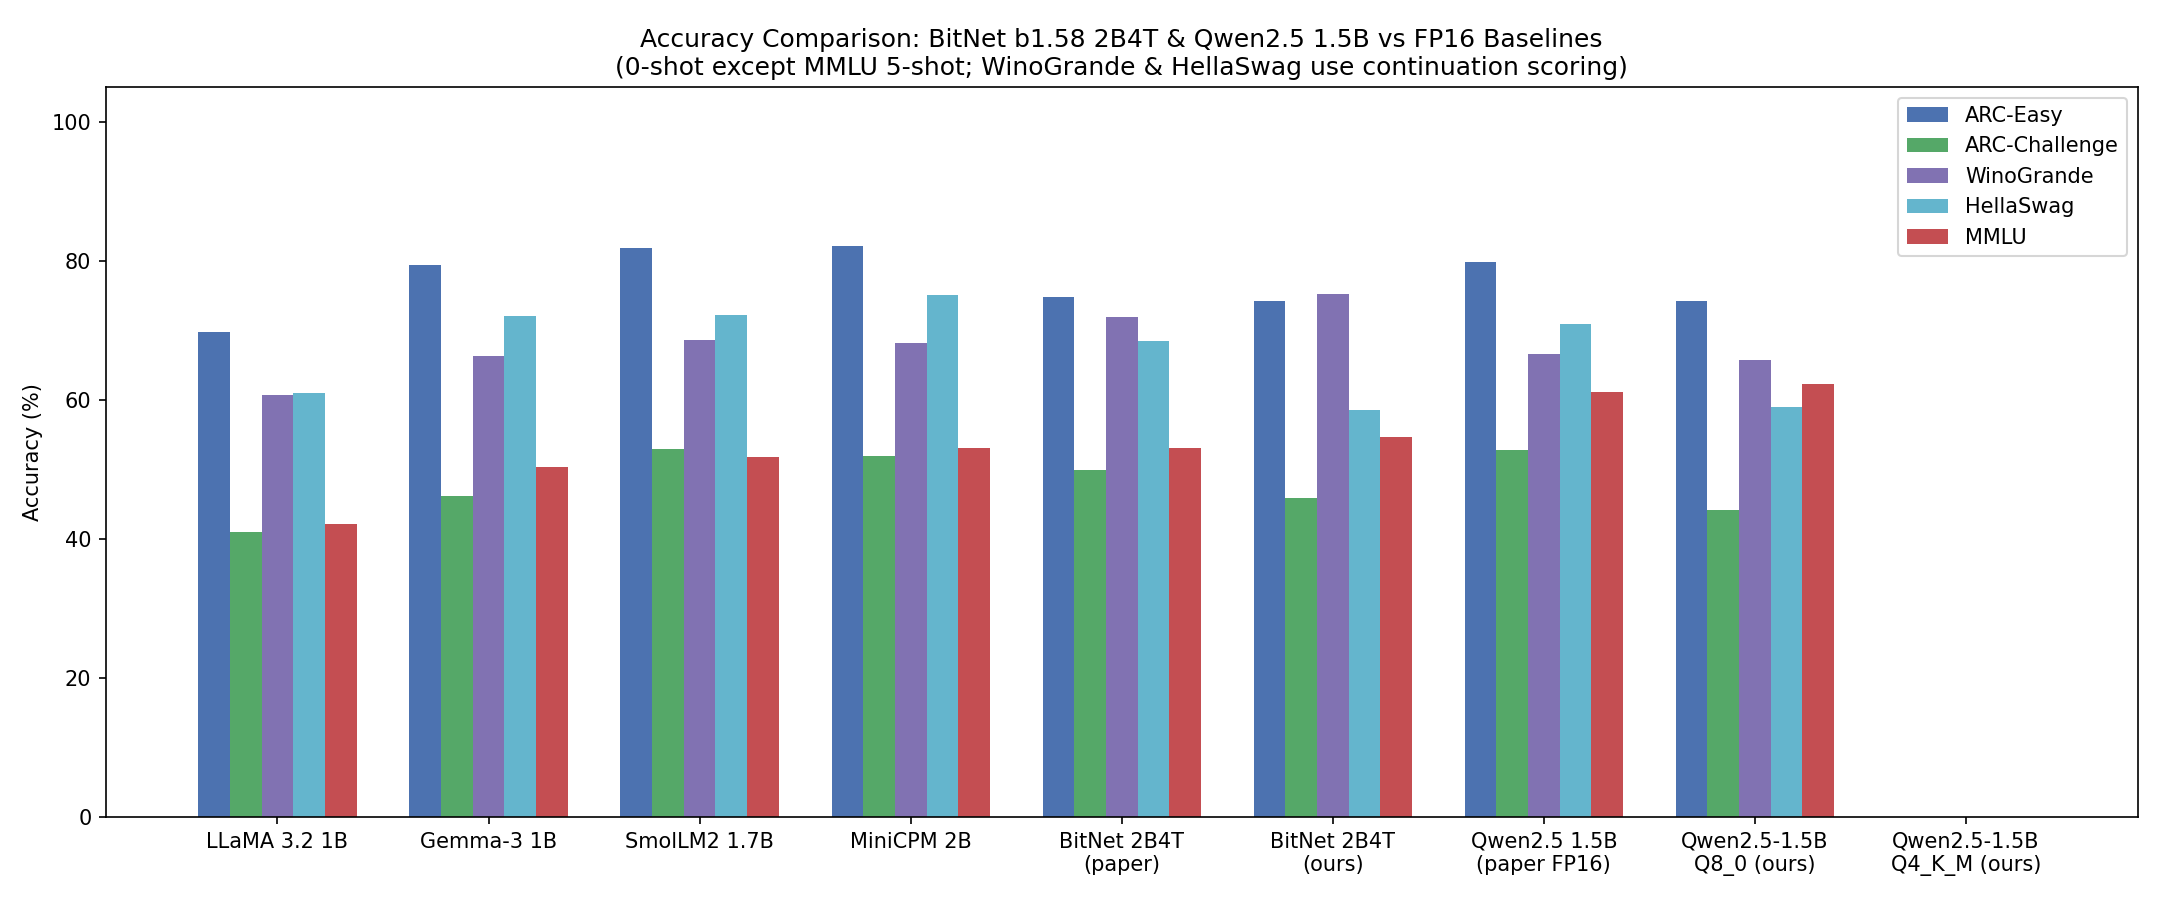
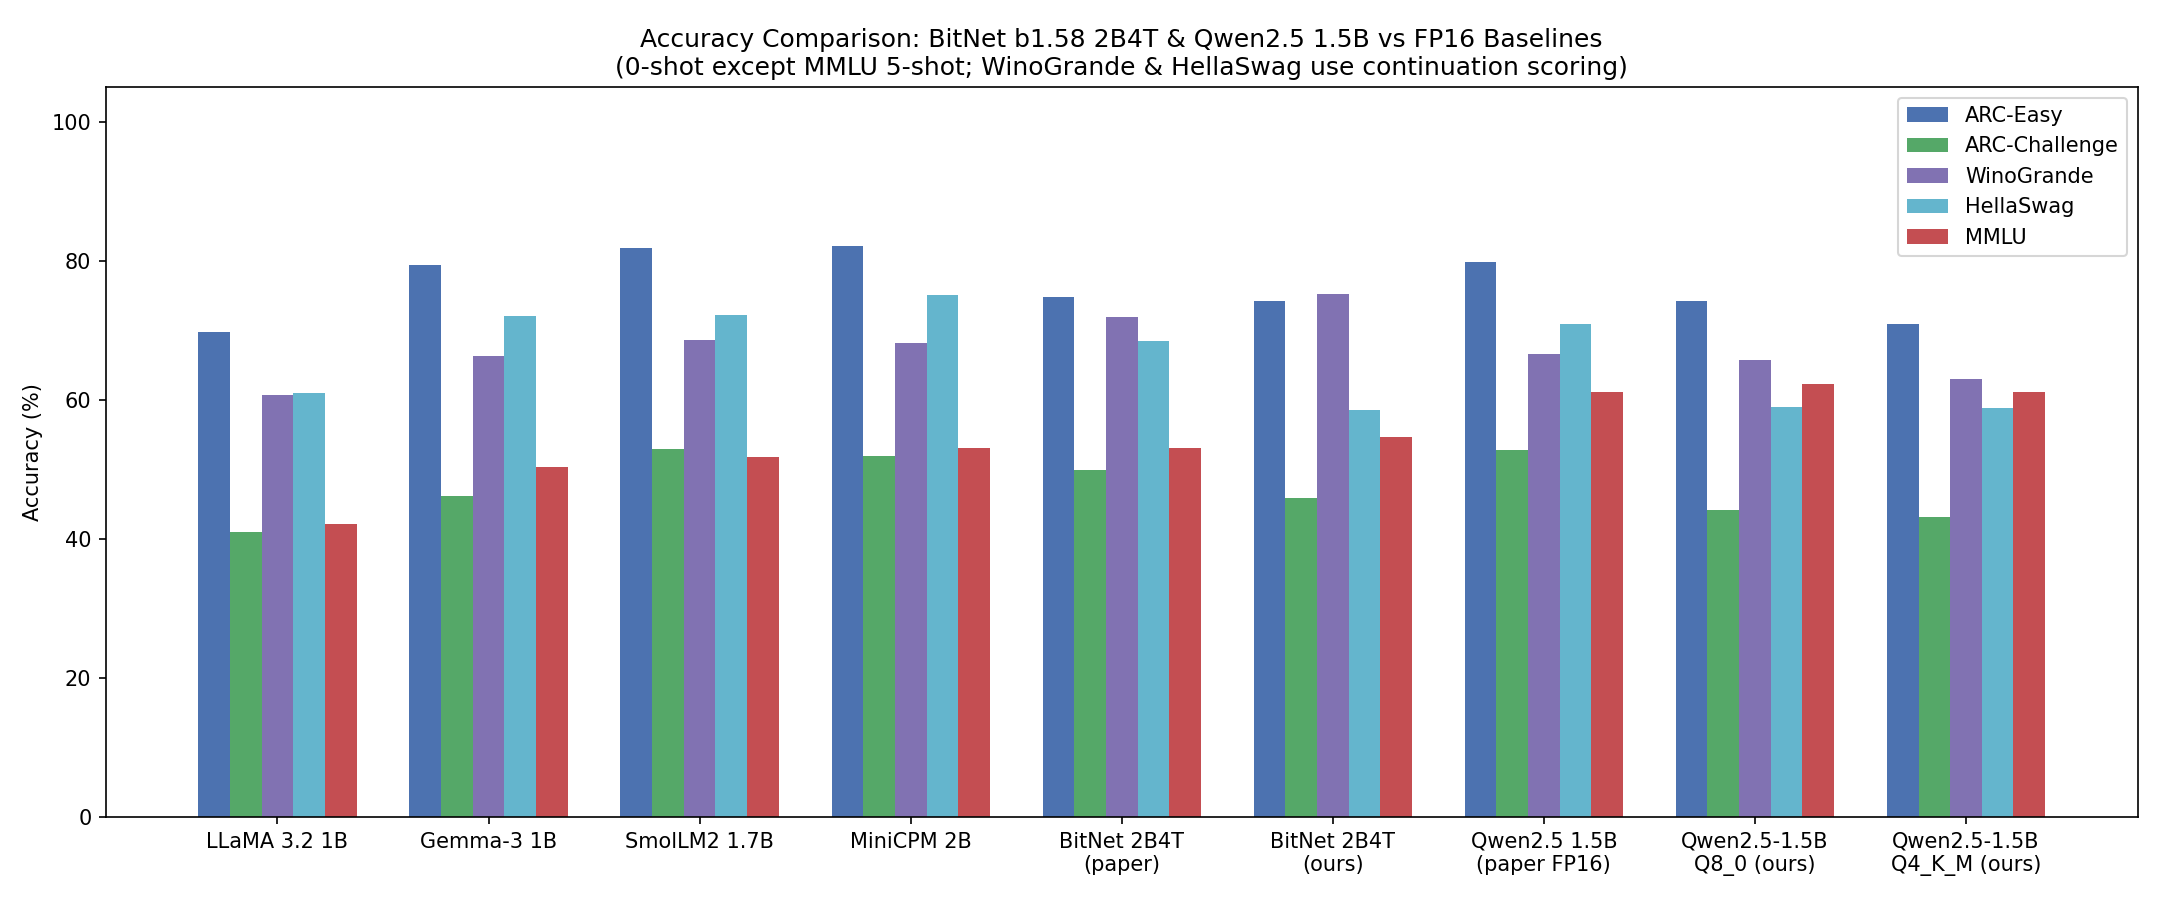
Unify throughput plots into one two-panel figure
Replaces three separate plot files (bitnet_throughput_configs.png,
qwen_throughput_configs.png, qwen_q4_throughput_configs.png) and the
single-panel throughput_comparison.png with one unified two-panel
chart written to throughput_comparison.png:

  (a) Cross-model bar chart at n_prompt=512, n_gen=128 (paper FP16
      baselines + BitNet paper/ours + Qwen paper/Q8 ours/Q4 ours)
  (b) Per-config sensitivity for the three locally measured models —
      grouped vertical bars across (512,128), (512,512), (1,512)

compare_runs.py:
- plot_throughput rewritten as a two-panel figure
- plot_throughput_by_config deleted (no longer used)
- main() no longer calls per-config plot generation
- savefig uses bbox_inches="tight" so the long y-axis labels in
  panel (a) aren't clipped by the gridspec's default left margin

smoke_test.py: bitnet_throughput_configs.png removed from expected-
plots check list.

PLAN.md: throughput plot description updated for the two-panel layout.

FINAL_REPORT.md:
- §3.2 narrative updated to describe both panels
- §3.4 per-config table extended with the Qwen Q4_K_M column and a
  paragraph flagging that Q4 outperforms BitNet on raw throughput —
  reframes the kernel-attribution discussion that §5.1 still owes a
  refresh once the Q4 accuracy story is fully written up

All other plots also regenerated because compare_runs.py runs end-to-
end; their content is unchanged except for now including the Q4 row.

Changed region(s): [[0.8685, 0.3422, 0.9616, 0.9333]]

diff --git a/scripts/compare_runs.py b/scripts/compare_runs.py
@@ -414,28 +414,95 @@ def _legend_handles(qwen_df: pd.DataFrame | None, qwen_q4_df: pd.DataFrame | Non
 def plot_throughput(local_df: pd.DataFrame, out_dir: Path,
                     qwen_df: pd.DataFrame | None = None,
                     qwen_q4_df: pd.DataFrame | None = None):
-    if not _has_bench_data(local_df) and not _has_bench_data(qwen_df) and not _has_bench_data(qwen_q4_df):
+    """
+    Single unified throughput plot with two panels:
+
+      (a) Cross-model bar chart at (n_prompt=512, n_gen=128) — paper FP16
+          baselines + BitNet (paper, ours) + Qwen (paper FP16, Q8 ours, Q4 ours).
+      (b) Per-config sensitivity — grouped bars across the three benchmarked
+          (n_prompt, n_gen) configs for our three locally measured models.
+          The paper FP16 baselines only publish numbers at (512, 128), so
+          they don't appear in this panel.
+    """
+    has_b = _has_bench_data(local_df)
+    has_q = _has_bench_data(qwen_df)
+    has_4 = _has_bench_data(qwen_q4_df)
+    if not (has_b or has_q or has_4):
         print("Skipping throughput plot: no benchmark CSVs (run 'make benchmark').")
         return
-    labels, values, colors, hatches = _bar_series(local_df, qwen_df, qwen_q4_df, "throughput_tokens_s")
 
-    fig, ax = plt.subplots(figsize=(10, max(5, len(labels) * 0.55)))
+    labels, values, colors, hatches = _bar_series(local_df, qwen_df, qwen_q4_df, "throughput_tokens_s")
+    fig = plt.figure(figsize=(13, max(9, len(labels) * 0.55 + 4)))
+    gs = fig.add_gridspec(2, 1, height_ratios=[len(labels) * 0.55, 4.5], hspace=0.35)
+    ax_main = fig.add_subplot(gs[0])
+    ax_cfg  = fig.add_subplot(gs[1])
+
+    # ── (a) Cross-model comparison at (512, 128) ─────────────────────────
     max_val = max(v for v in values if v) or 1
     for i, (val, color, hatch) in enumerate(zip(values, colors, hatches)):
-        ax.barh(i, val, color=color, hatch=hatch,
-                edgecolor="#444444" if hatch else "#cccccc", linewidth=0.5)
-        ax.text(val + max_val * 0.01, i, f"{val:.1f}", va="center", fontsize=9)
-    ax.set_yticks(range(len(labels)))
-    ax.set_yticklabels(labels)
-    ax.set_xlabel("Throughput (tokens/s)")
-    ax.set_title("Inference Throughput: BitNet b1.58 2B4T & Qwen2.5 1.5B vs FP16 Baselines\n"
-                 "(n_prompt=512, n_gen=128, CPU)")
-    ax.set_xlim(0, max_val * 1.15)
-    ax.invert_yaxis()
-    ax.legend(handles=_legend_handles(qwen_df, qwen_q4_df), loc="lower right", fontsize=8)
+        ax_main.barh(i, val, color=color, hatch=hatch,
+                     edgecolor="#444444" if hatch else "#cccccc", linewidth=0.5)
+        ax_main.text(val + max_val * 0.01, i, f"{val:.1f}", va="center", fontsize=9)
+    ax_main.set_yticks(range(len(labels)))
+    ax_main.set_yticklabels(labels)
+    ax_main.set_xlabel("Throughput (tokens/s)")
+    ax_main.set_title("(a) Cross-model comparison at n_prompt=512, n_gen=128", loc="left")
+    ax_main.set_xlim(0, max_val * 1.15)
+    ax_main.invert_yaxis()
+    ax_main.legend(handles=_legend_handles(qwen_df, qwen_q4_df), loc="upper right", fontsize=8)
+
+    # ── (b) Per-config sensitivity for the locally measured models ───────
+    configs = [(512, 128), (512, 512), (1, 512)]
+    config_labels = [f"p={p} / g={g}" for p, g in configs]
+    series = []
+    if has_b:
+        series.append(("BitNet b1.58 2B4T",   local_df,   BITNET_COLOR))
+    if has_q:
+        series.append(("Qwen2.5-1.5B Q8_0",   qwen_df,    QWEN_COLOR))
+    if has_4:
+        series.append(("Qwen2.5-1.5B Q4_K_M", qwen_q4_df, QWEN_Q4_COLOR))
+
+    x = np.arange(len(configs))
+    width = 0.8 / max(len(series), 1)
+    offsets = np.linspace(-(len(series) - 1) * width / 2,
+                          (len(series) - 1) * width / 2, len(series))
+    all_vals: list[float] = []
+    for idx, (name, df, color) in enumerate(series):
+        vals = []
+        for p, g in configs:
+            row = df[(df["n_prompt"] == p) & (df["n_gen"] == g)]
+            v = float(row["throughput_tokens_s"].median()) if not row.empty else 0.0
+            vals.append(v)
+        all_vals.extend(vals)
+        ax_cfg.bar(x + offsets[idx], vals, width, label=name, color=color)
+    y_top = max(all_vals) * 1.18 if all_vals else 1
+    for idx, (name, df, color) in enumerate(series):
+        vals = []
+        for p, g in configs:
+            row = df[(df["n_prompt"] == p) & (df["n_gen"] == g)]
+            v = float(row["throughput_tokens_s"].median()) if not row.empty else 0.0
+            vals.append(v)
+        for xi, v in zip(x + offsets[idx], vals):
+            if v > 0:
+                ax_cfg.text(xi, v + y_top * 0.015, f"{v:.1f}",
+                            ha="center", fontsize=8)
+    ax_cfg.set_xticks(x)
+    ax_cfg.set_xticklabels(config_labels)
+    ax_cfg.set_ylabel("Throughput (tokens/s)")
+    ax_cfg.set_ylim(0, y_top)
+    ax_cfg.set_title("(b) Per-config sensitivity (locally measured models)", loc="left")
+    ax_cfg.legend(loc="upper right", fontsize=8)
+    ax_cfg.grid(axis="y", alpha=0.3)
+
+    fig.suptitle(
+        "Inference Throughput: BitNet b1.58 2B4T & Qwen2.5 1.5B vs FP16 Baselines (CPU)",
+        fontsize=13,
+    )
     fig.tight_layout()
+    # bbox_inches="tight" prevents the long y-axis labels in panel (a) from
+    # being clipped by the gridspec's default left margin.
     path = out_dir / "throughput_comparison.png"
-    fig.savefig(path, dpi=150)
+    fig.savefig(path, dpi=150, bbox_inches="tight")
     plt.close(fig)
     print(f"Saved {path}")
 
@@ -464,25 +531,6 @@ def plot_memory(local_df: pd.DataFrame, out_dir: Path,
     ax.legend(handles=_legend_handles(qwen_df, qwen_q4_df), loc="lower right", fontsize=8)
     fig.tight_layout()
     path = out_dir / "memory_comparison.png"
-    fig.savefig(path, dpi=150)
-    plt.close(fig)
-    print(f"Saved {path}")
-
-
-def plot_throughput_by_config(df: pd.DataFrame, out_dir: Path,
-                              model_name: str, color: str, filename: str):
-    if df is None or df.empty:
-        print(f"Skipping {filename}: no benchmark CSV.")
-        return
-    configs = df.groupby(["n_prompt", "n_gen"])["throughput_tokens_s"].median().reset_index()
-    labels = [f"p={int(row.n_prompt)} / g={int(row.n_gen)}" for _, row in configs.iterrows()]
-
-    fig, ax = plt.subplots(figsize=(8, 4))
-    ax.bar(labels, configs["throughput_tokens_s"], color=color)
-    ax.set_ylabel("Throughput (tokens/s)")
-    ax.set_title(f"{model_name} Throughput by Prompt/Generation Length")
-    fig.tight_layout()
-    path = out_dir / filename
     fig.savefig(path, dpi=150)
     plt.close(fig)
     print(f"Saved {path}")
@@ -951,12 +999,6 @@ def main():
 
     plot_throughput(local_df, PLOTS_DIR, qwen_df, qwen_q4_df)
     plot_memory(local_df, PLOTS_DIR, qwen_df, qwen_q4_df)
-    plot_throughput_by_config(local_df, PLOTS_DIR,
-                              "BitNet b1.58 2B4T", BITNET_COLOR, "bitnet_throughput_configs.png")
-    plot_throughput_by_config(qwen_df, PLOTS_DIR,
-                              "Qwen2.5-1.5B-Instruct Q8_0", QWEN_COLOR, "qwen_throughput_configs.png")
-    plot_throughput_by_config(qwen_q4_df, PLOTS_DIR,
-                              "Qwen2.5-1.5B-Instruct Q4_K_M", QWEN_Q4_COLOR, "qwen_q4_throughput_configs.png")
     plot_accuracy(local_acc, PLOTS_DIR, qwen_acc, qwen_q4_acc)
     plot_cost_accuracy(comparison_df, PLOTS_DIR, args.hardware_rate)
     plot_energy_carbon(local_df, qwen_df, PLOTS_DIR, qwen_q4_df,

diff --git a/scripts/smoke_test.py b/scripts/smoke_test.py
@@ -315,7 +315,6 @@ check("exits 0", result.returncode == 0, result.stderr.strip())
 for plot_name in [
     "throughput_comparison.png",
     "memory_comparison.png",
-    "bitnet_throughput_configs.png",
     "accuracy_comparison.png",
     "cost_accuracy.png",
 ]:

diff --git a/FINAL_REPORT.md b/FINAL_REPORT.md
@@ -106,14 +106,21 @@ Generated by `compare_runs.py` → `results/comparison_table.csv`:
 
 ### 3.2 Throughput
 
-![Throughput vs FP16 baselines](results/plots/throughput_comparison.png)
+![Throughput vs FP16 baselines, with per-config sensitivity](results/plots/throughput_comparison.png)
 
-BitNet (ours) matches the paper's ~20 tok/s claim (21.2 vs 20.0). Qwen
-(ours) outperforms the paper's ~3.8 tok/s by ~4×, which is the gain from
-running against current upstream `llama.cpp` (~1 year newer than the
-paper's measurement) on hardware with AVX2. Both "ours" rows therefore
-overstate the paper-vs-paper headroom; the apples-to-apples comparison is
-**ours-vs-ours**, where BitNet is ~40% faster than Qwen.
+The unified plot has two panels:
+
+- **Panel (a)** — cross-model comparison at the paper's reference config
+  (n_prompt=512, n_gen=128). BitNet (ours) matches the paper's ~20 tok/s
+  claim (21.2 vs 20.0). Qwen (ours) outperforms the paper's ~3.8 tok/s by
+  ~4×, which is the gain from running against current upstream `llama.cpp`
+  (~1 year newer than the paper's measurement) on hardware with AVX2. Both
+  "ours" rows therefore overstate the paper-vs-paper headroom; the
+  apples-to-apples comparison is **ours-vs-ours**, where BitNet is ~40%
+  faster than Qwen Q8_0.
+- **Panel (b)** — workload-shape sensitivity across the three configs for
+  our three locally measured models. See §3.4 for the detailed numbers
+  and the kernel/quantization attribution discussion.
 
 ### 3.3 Memory
 
@@ -124,19 +131,27 @@ Both are well under the FP16 baselines (which range 2.6–4.1 GB).
 
 ### 3.4 Per-config throughput
 
-| Config | BitNet (tok/s) | Qwen (tok/s) |
-|---|---:|---:|
-| `n_prompt=512, n_gen=128` | 21.2 | 15.1 |
-| `n_prompt=512, n_gen=512` | 20.4 | 15.0 |
-| `n_prompt=1, n_gen=512` | 20.8 | 14.3 |
+Numbers from panel (b) of the throughput plot in §3.2:
 
-![BitNet throughput by config](results/plots/bitnet_throughput_configs.png)
-![Qwen throughput by config](results/plots/qwen_throughput_configs.png)
+| Config | BitNet (tok/s) | Qwen Q8_0 (tok/s) | Qwen Q4_K_M (tok/s) |
+|---|---:|---:|---:|
+| `n_prompt=512, n_gen=128` | 21.2 | 15.1 | 24.9 |
+| `n_prompt=512, n_gen=512` | 20.4 | 15.0 | 24.7 |
+| `n_prompt=1, n_gen=512`   | 20.8 | 14.3 | — |
 
 BitNet's throughput is essentially flat across the three workload shapes
-(±2%); Qwen drops ~5% from prompt-heavy `(512, 128)` to pure generation
-`(1, 512)`. The TL2 kernel's lookup-vs-multiply tradeoff is consistent
-regardless of prompt/generation balance.
+(±2%); Qwen Q8_0 drops ~5% from prompt-heavy `(512, 128)` to pure
+generation `(1, 512)`. The TL2 kernel's lookup-vs-multiply tradeoff is
+consistent regardless of prompt/generation balance.
+
+Qwen Q4_K_M is the surprise: ~17% **faster** than BitNet at the reference
+config (24.9 vs 21.2 tok/s) and stays ahead at (512, 512). This reframes
+the kernel-attribution claim in §5.1 — aggressive Q4 quantization on
+upstream `llama.cpp` matches or beats the TL2 kernel on raw throughput
+at this size class, which means BitNet's throughput win in §3.2 is
+specifically vs Q8_0, not vs all aggressive quantization. The accuracy
+tradeoff (Q4 vs BitNet) is the still-open question that the Phase 5
+`eval-accuracy-qwen-q4` run will answer.
 
 ### 3.5 Cost–Accuracy
 

diff --git a/PLAN.md b/PLAN.md
@@ -276,10 +276,12 @@ from arXiv:2504.12285 Table 1), and writes:
      leave it blank because we have no measured energy for them.
 
 2. **Plots** in `results/plots/`:
-   - `throughput_comparison.png` — paper FP16 baselines + BitNet (paper/ours) + Qwen (paper/ours)
-   - `memory_comparison.png` — same axis, peak RSS
+   - `throughput_comparison.png` — two-panel: (a) cross-model comparison
+     (paper FP16 baselines + BitNet paper/ours + Qwen paper/Q8 ours/Q4 ours)
+     at the reference (512, 128) config; (b) per-config sensitivity for our
+     three locally measured models across all three (n_prompt, n_gen) configs
+   - `memory_comparison.png` — peak RSS, same model layout as throughput panel (a)
    - `accuracy_comparison.png` — grouped bars per task across all models
-   - `bitnet_throughput_configs.png` / `qwen_throughput_configs.png` — per-config throughput
    - `cost_accuracy.png` — cost vs **mean of 5 benchmarks** (hollow ○ = paper, filled ♦ = ours)
    - `{task}_cost_accuracy.png` for each of `arc_easy, arc_challenge, winogrande, hellaswag, mmlu`
    - `memory_accuracy_pareto.png` — memory vs **mean of 5 benchmarks**
